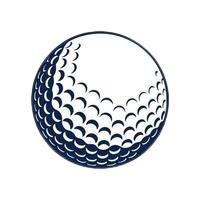
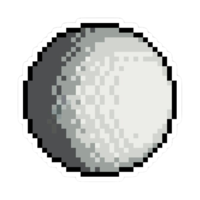
Project cleanup

diff --git a/src/menu.py b/src/menu.py
@@ -1,6 +1,5 @@
 import sys
 import pygame
-from pygame import mouse
 from pygame import mixer
 from menu import *
 
@@ -16,6 +15,8 @@ background = pygame.image.load("../assets/images/backgrounds/SwingKing1.png").co
 play_bg = pygame.image.load("../assets/images/backgrounds/SwingKing1.png").convert()
 options_bg = pygame.image.load("../assets/images/backgrounds/SwingKing1.png").convert()
 credits_bg = pygame.image.load("../assets/images/backgrounds/SwingKing1CREDITS.png").convert()
+
+credits = pygame.image.load("../assets/images/backgrounds/SwingKing1CREDITS.png").convert()
 
 mixer.music.load("../assets/audio/music/SwingKing.mp3")
 mixer.music.set_volume(0.5)
@@ -51,7 +52,6 @@ def go_to_menu():
 def exit_function():
     pygame.quit()
     sys.exit()
-credits = pygame.image.load("../assets/images/backgrounds/SwingKing1CREDITS.png").convert()
 
 def credits_page() :
     while True :
@@ -103,7 +103,7 @@ while running:
         elif current_screen in {PLAY_SCREEN, OPTIONS_SCREEN, CREDITS_SCREEN}:
             BACK.listen(event)
 
-    # affichage des différetnes scènes
+    # Display of the different scenes
     if current_screen == MAIN_MENU:
         screen.blit(background, (0, 0))
         PLAY.hover()

diff --git a/src/game.py b/src/game.py
@@ -1,13 +1,11 @@
-from collections import namedtuple
-
-from src.entities import Ball, Camera
+from src.entities import Ball, Camera
 import src.utils.settings_loader as settings
 from src.utils import *
 
 BALL_START_X, BALL_START_Y = 800, 500 # TODO - REPLACE WITH LEVEL DATA LATER
 SCENE_WIDTH, SCENE_HEIGHT = 10000, 2000 # TODO - REPLACE WITH LEVEL DATA LATER
 GRAVITY = 980  # Gravitational acceleration in pixels/s² # TODO - REPLACE WITH LEVEL DATA LATER
-BALL_RADIUS = 50
+BALL_RADIUS = 50.0
 
 class Game:
 
@@ -36,7 +34,7 @@ class Game:
 
         # Initialize game objects
         self.ball = Ball(pygame.Vector2(BALL_START_X, BALL_START_Y), 4.2, 0.047, pygame.Color("white"),
-                 "assets/images/balls/golf_ball2.png")
+                 "assets/images/balls/golf_ball.png")
 
         # Load terrain and obstacles
         self.terrain_polys = level_loader.json_to_list(self.terrain_data, self.screen, 0)

diff --git a/main.py b/main.py
@@ -8,5 +8,6 @@ pygame.init()
 WIDTH, HEIGHT = 1920, 1080 # TODO - REPLACE BY SCREEN RESOLUTION LATER (OR SETTINGS FILE)
                            # LEAVING IT HERE FOR NOW FOR TESTING PURPOSES (Console easy to read for non fullscreen)
 
+
 game = game.Game(pygame.Vector2(WIDTH, HEIGHT))
 game.run()

diff --git a/src/utils/__init__.py b/src/utils/__init__.py
@@ -1,4 +1,4 @@
 from .level_loader import json_to_list, load_json_level
 from .physics_utils import *
 from .settings_loader import load_json_settings, save_json_settings
-from .drag import *
+from .drag_handler import *

diff --git a/src/entities/__init__.py b/src/entities/__init__.py
@@ -1,5 +1,4 @@
 from .ball import Ball
-from .club import Club
 from .obstacle import Obstacle
 from .terrain import Terrain
 from .camera import Camera
